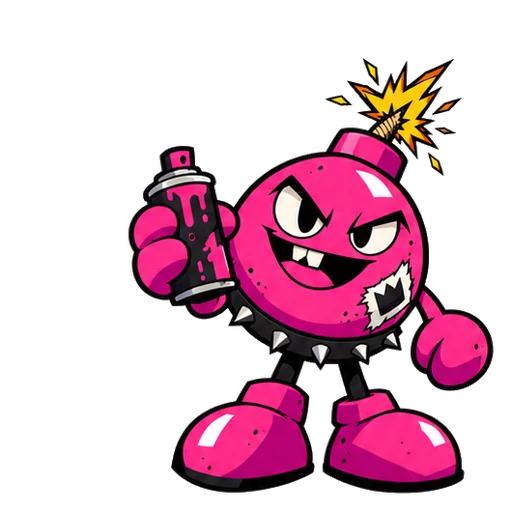
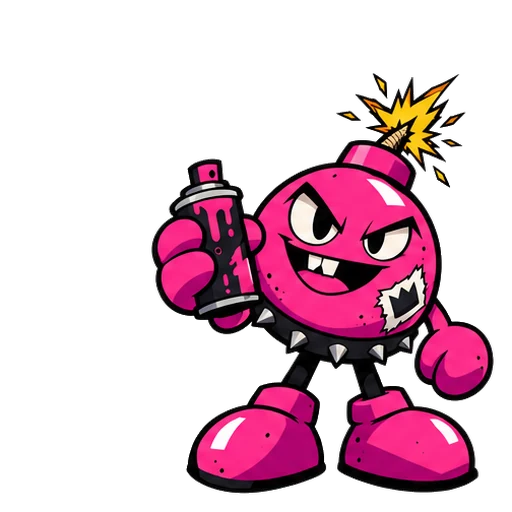
feat: RIOT idle repainted at 6 frames (smoother); test every flipbook frame ships

Changed region(s): [[0.25, 0.125, 0.9688, 0.9688]]

diff --git a/src/cast/cast.js b/src/cast/cast.js
@@ -355,7 +355,8 @@ for (const b of ['hype', 'brawl', 'hex']) CAST_LAYERS[`${b}-gold`] = goldAct(b);
  *  hold on frame 0 before the next play. While a hero has frames its painted HERO + prop streams are replaced by them. */
 export const CAST_FRAMES = {
   // RIOT: shake the can (twice), spray, blow the nozzle like a smoking gun
-  riot: { n: 4, seq: [[1, 170], [0, 120], [1, 170], [0, 120], [1, 200], [2, 1100], [3, 1000]], rest: 1700 },
+  // 6 frames (oct19, Andy: "a bit too choppy"): cocks the can → shakes it (twice) → aims, a first puff → full spray → blows the nozzle
+  riot: { n: 6, seq: [[1, 140], [2, 150], [1, 120], [2, 160], [3, 300], [4, 760], [5, 980]], rest: 1500 },
   // GLITCH: bored chew → the bubble grows → huge → POP, gum all over its face, still unimpressed
   glitch: { n: 4, seq: [[1, 380], [2, 520], [3, 1300]], rest: 2200 },
   // HYPE: wind up → finger to the sky YELLING → wave it to the crowd (twice) → points right at you, wink
@@ -390,7 +391,9 @@ export const CAST_FRAMES = {
   'hex-elite': { n: 4, seq: [[1, 650], [2, 1050], [3, 1150]], rest: 2000 },
 };
 // GOLD versions act out their member's routine in solid gold — same beats, so they borrow the member's timing
-for (const b of ['riot', 'glitch', 'hype', 'brawl', 'hex']) CAST_FRAMES[`${b}-gold`] = CAST_FRAMES[b];
+// (a member re-painted at 6 frames keeps a 4-frame GOLD: GOLD_SEQ4 holds the 4-frame beat it was painted to)
+const GOLD_SEQ4 = { riot: { n: 4, seq: [[1, 170], [0, 120], [1, 170], [0, 120], [1, 200], [2, 1100], [3, 1000]], rest: 1700 } };
+for (const b of ['riot', 'glitch', 'hype', 'brawl', 'hex']) CAST_FRAMES[`${b}-gold`] = GOLD_SEQ4[b] || CAST_FRAMES[b];
 /** WIN flipbooks (oct19, Andy: "theres so much hero stuff we can improve on"): the victory pose acts out a short
  *  celebration on the results screen, the preview's WIN tab and the NEW HERO reveal. Frames are
  *  public/cast/anim/<id>-win-<n>.webp, registered on the pose's lowest point (the WIN poses are mid-jump). */

diff --git a/src/cast/castFrames.test.js b/src/cast/castFrames.test.js
@@ -1,0 +1,26 @@
+// castFrames.test.js — every painted flipbook ships every frame it plays (a 6-frame spec over a 4-frame sheet would
+// flash a broken image mid-loop: GOLD members borrow their member's beat, so a member re-painted at 6 frames must not
+// drag its 4-frame GOLD along). Specs are module-level objects, so components can key effects on them.
+import { test } from 'node:test';
+import assert from 'node:assert/strict';
+import fs from 'node:fs';
+import { CAST_FRAMES, CAST_WIN_FRAMES, castFrames } from './cast.js';
+
+const has = (f) => fs.existsSync(new URL(`../../public/cast/anim/${f}.webp`, import.meta.url));
+
+test('every HERO flipbook frame exists, and every step names a real frame', () => {
+  for (const [id, F] of Object.entries(CAST_FRAMES)) {
+    for (let k = 0; k < F.n; k++) assert.ok(has(`${id}-${k}`), `${id}-${k}.webp missing`);
+    for (const [f, ms] of F.seq) assert.ok(f >= 0 && f < F.n && ms > 0, `${id}: bad step ${f}/${ms}`);
+  }
+});
+
+test('every WIN flipbook frame exists', () => {
+  for (const [id, F] of Object.entries(CAST_WIN_FRAMES)) for (let k = 0; k < F.n; k++) assert.ok(has(`${id}-win-${k}`), `${id}-win-${k}.webp missing`);
+});
+
+test('castFrames returns the SAME object every call (stable effect deps under App re-render churn)', () => {
+  assert.equal(castFrames('riot'), castFrames('riot'));
+  assert.equal(castFrames('riot', 'win'), castFrames('riot', 'win'));
+  assert.equal(castFrames('riot', 'ko'), null);
+});
